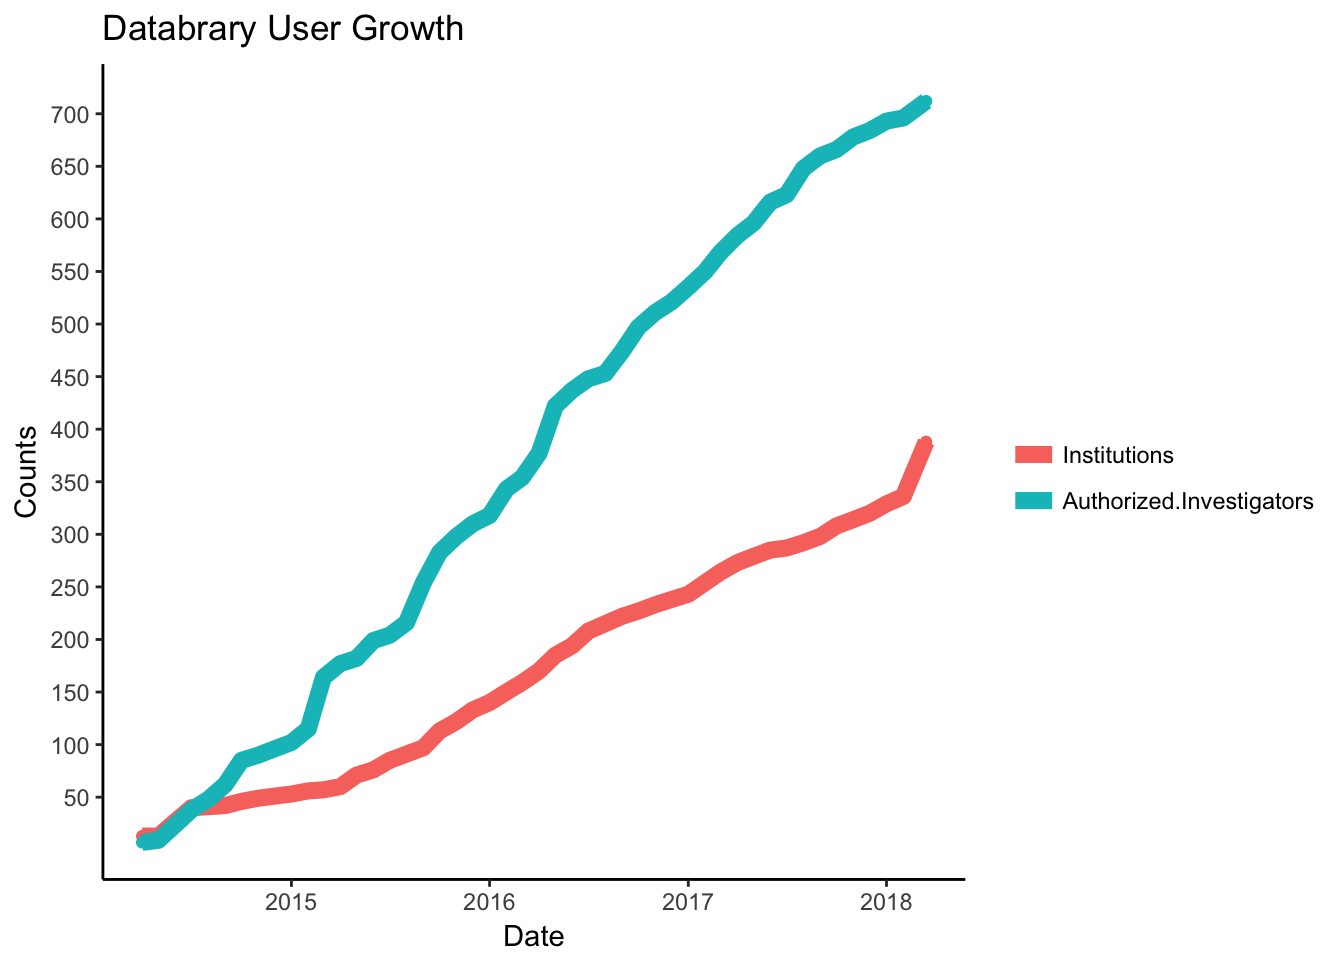
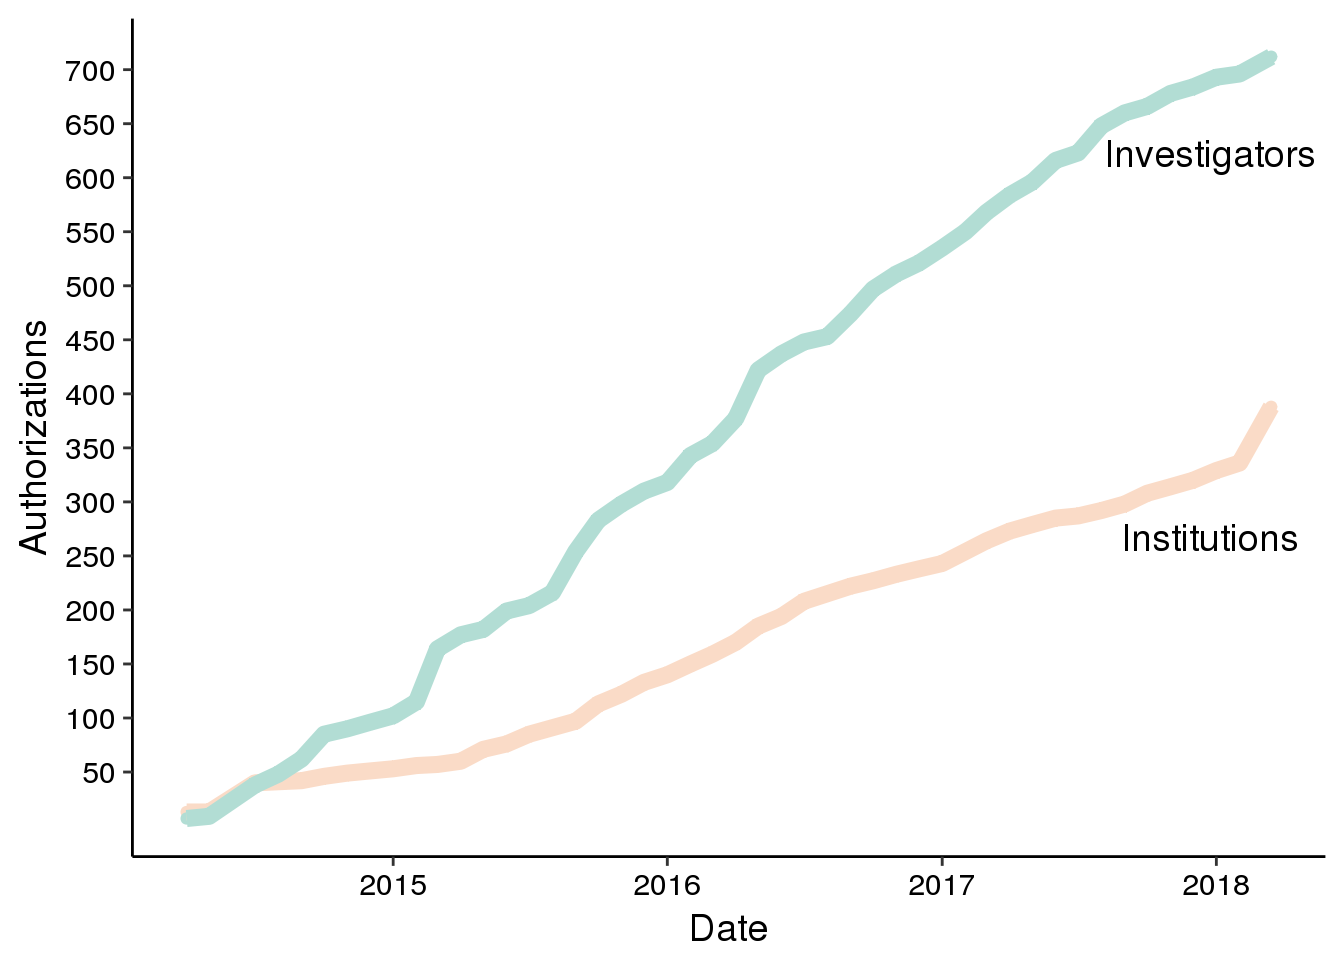
Make Changes to Plot

diff --git a/databrary-user-growth.html b/databrary-user-growth.html
@@ -25,8 +25,8 @@
 <script src="databrary-user-growth_files/tocify-1.9.1/jquery.tocify.js"></script>
 <script src="databrary-user-growth_files/navigation-1.1/tabsets.js"></script>
 <script src="databrary-user-growth_files/navigation-1.1/codefolding.js"></script>
-<link href="databrary-user-growth_files/highlightjs-1.1/default.css" rel="stylesheet" />
-<script src="databrary-user-growth_files/highlightjs-1.1/highlight.js"></script>
+<link href="databrary-user-growth_files/highlightjs-9.12.0/default.css" rel="stylesheet" />
+<script src="databrary-user-growth_files/highlightjs-9.12.0/highlight.js"></script>
 
 <style type="text/css">code{white-space: pre;}</style>
 <style type="text/css">
@@ -35,10 +35,12 @@
   }
 </style>
 <script type="text/javascript">
-if (window.hljs && document.readyState && document.readyState === "complete") {
-   window.setTimeout(function() {
-      hljs.initHighlighting();
-   }, 0);
+if (window.hljs) {
+  hljs.configure({languages: []});
+  hljs.initHighlightingOnLoad();
+  if (document.readyState && document.readyState === "complete") {
+    window.setTimeout(function() { hljs.initHighlighting(); }, 0);
+  }
 }
 </script>
 
@@ -233,7 +235,7 @@ div.tocify {
 
 <h1 class="title toc-ignore">databrary-user-growth</h1>
 <h4 class="author"><em>Andrea R. Seisler</em></h4>
-<h4 class="date"><em>2018-03-15 08:59:29</em></h4>
+<h4 class="date"><em>2018-03-15 12:21:04</em></h4>
 
 </div>
 
@@ -256,7 +258,13 @@ library(dplyr)</code></pre>
 <pre><code>## The following objects are masked from &#39;package:base&#39;:
 ## 
 ##     intersect, setdiff, setequal, union</code></pre>
-<pre class="r"><code>library(knitr)</code></pre>
+<pre class="r"><code>library(knitr)
+library(cowplot)</code></pre>
+<pre><code>## 
+## Attaching package: &#39;cowplot&#39;</code></pre>
+<pre><code>## The following object is masked from &#39;package:ggplot2&#39;:
+## 
+##     ggsave</code></pre>
 </div>
 <div id="import-data" class="section level2">
 <h2>Import data</h2>
@@ -282,29 +290,21 @@ df.melt &lt;- melt(df, id = c(&quot;YearMonth&quot;, &quot;Year&quot;, &quot;Mon
 
 # Using Points
 p &lt;- 
-  ggplot(data=df.melt, aes(x=YearMonth, y = Count, color = Type, group = Type)) +
+  ggplot(data=df.melt, aes(x = YearMonth, y = Count, color = Type, group = Type)) +
   geom_point() + 
   geom_line(size=3) +
-  theme_classic() +
-  #scale_colour_manual(values=c(&quot;black&quot;, &quot;orange&quot;)) +  # What colors do we want to use?
-  ylab(&quot;Counts&quot;) +
+  theme_classic(base_size = 14) +                        #Axis Label Size
+  scale_colour_manual(values=c(&quot;#fadbc7&quot;, &quot;#b2ddd4&quot;)) +  #Databrary Colors
+  ylab(&quot;Authorizations&quot;) +
   xlab(&quot;Date&quot;) +
-  labs(title=&quot;Databrary User Growth&quot;) +
-  theme(legend.title=element_blank()) +
-  scale_y_continuous(breaks = c(50,100,150,200,250,300,350,400,450,500,550,600,650,700,750))
-  # To Do: Change x labels so they are readable and only every year
-  #scale_x_continuous(breaks=seq(df$YearMonth[1],df$YearMonth[46], 12))
-p</code></pre>
+  #labs(title=&quot;Databrary User Growth&quot;) +
+  theme(legend.position=&quot;none&quot;, axis.text = element_text(size = rel(0.8), colour = &quot;black&quot;)) +    #Axis text size and color
+  scale_y_continuous(breaks = c(50,100,150,200,250,300,350,400,450,500,550,600,650,700,750)) 
+  
+ggdraw(p) + 
+  draw_label(&quot;Investigators&quot;, .9, .84) +
+  draw_label(&quot;Institutions&quot;, .9, .44)</code></pre>
 <p><img src="databrary-user-growth_files/figure-html/p-user-growth-plot-1.png" width="672" /></p>
-</div>
-<div id="questions" class="section level2">
-<h2>Questions</h2>
-<div id="how-do-i-create-the-pretty-file-with-the-code-and-plots-so-it-is-viewable" class="section level4">
-<h4>How do I create the pretty file with the code and plots so it is viewable?</h4>
-<ul>
-<li>Knit to github document?</li>
-</ul>
-</div>
 </div>
 
 

diff --git a/databrary-user-growth_files/navigation-1.1/sourceembed.js b/databrary-user-growth_files/navigation-1.1/sourceembed.js
@@ -1,9 +1,12 @@
 
-
 window.initializeSourceEmbed = function(filename) {
   $("#rmd-download-source").click(function() {
-    var src = window.atob($("#rmd-source-code").html());
-    var blob = new Blob([src], {type: "text/x-r-markdown"});
-    saveAs(blob, filename);
+    var src = $("#rmd-source-code").html();
+    var a = document.createElement('a');
+    a.href = "data:text/x-r-markdown;base64," + src;
+    a.download = filename;
+    document.body.appendChild(a);
+    a.click();
+    document.body.removeChild(a);
   });
 };
